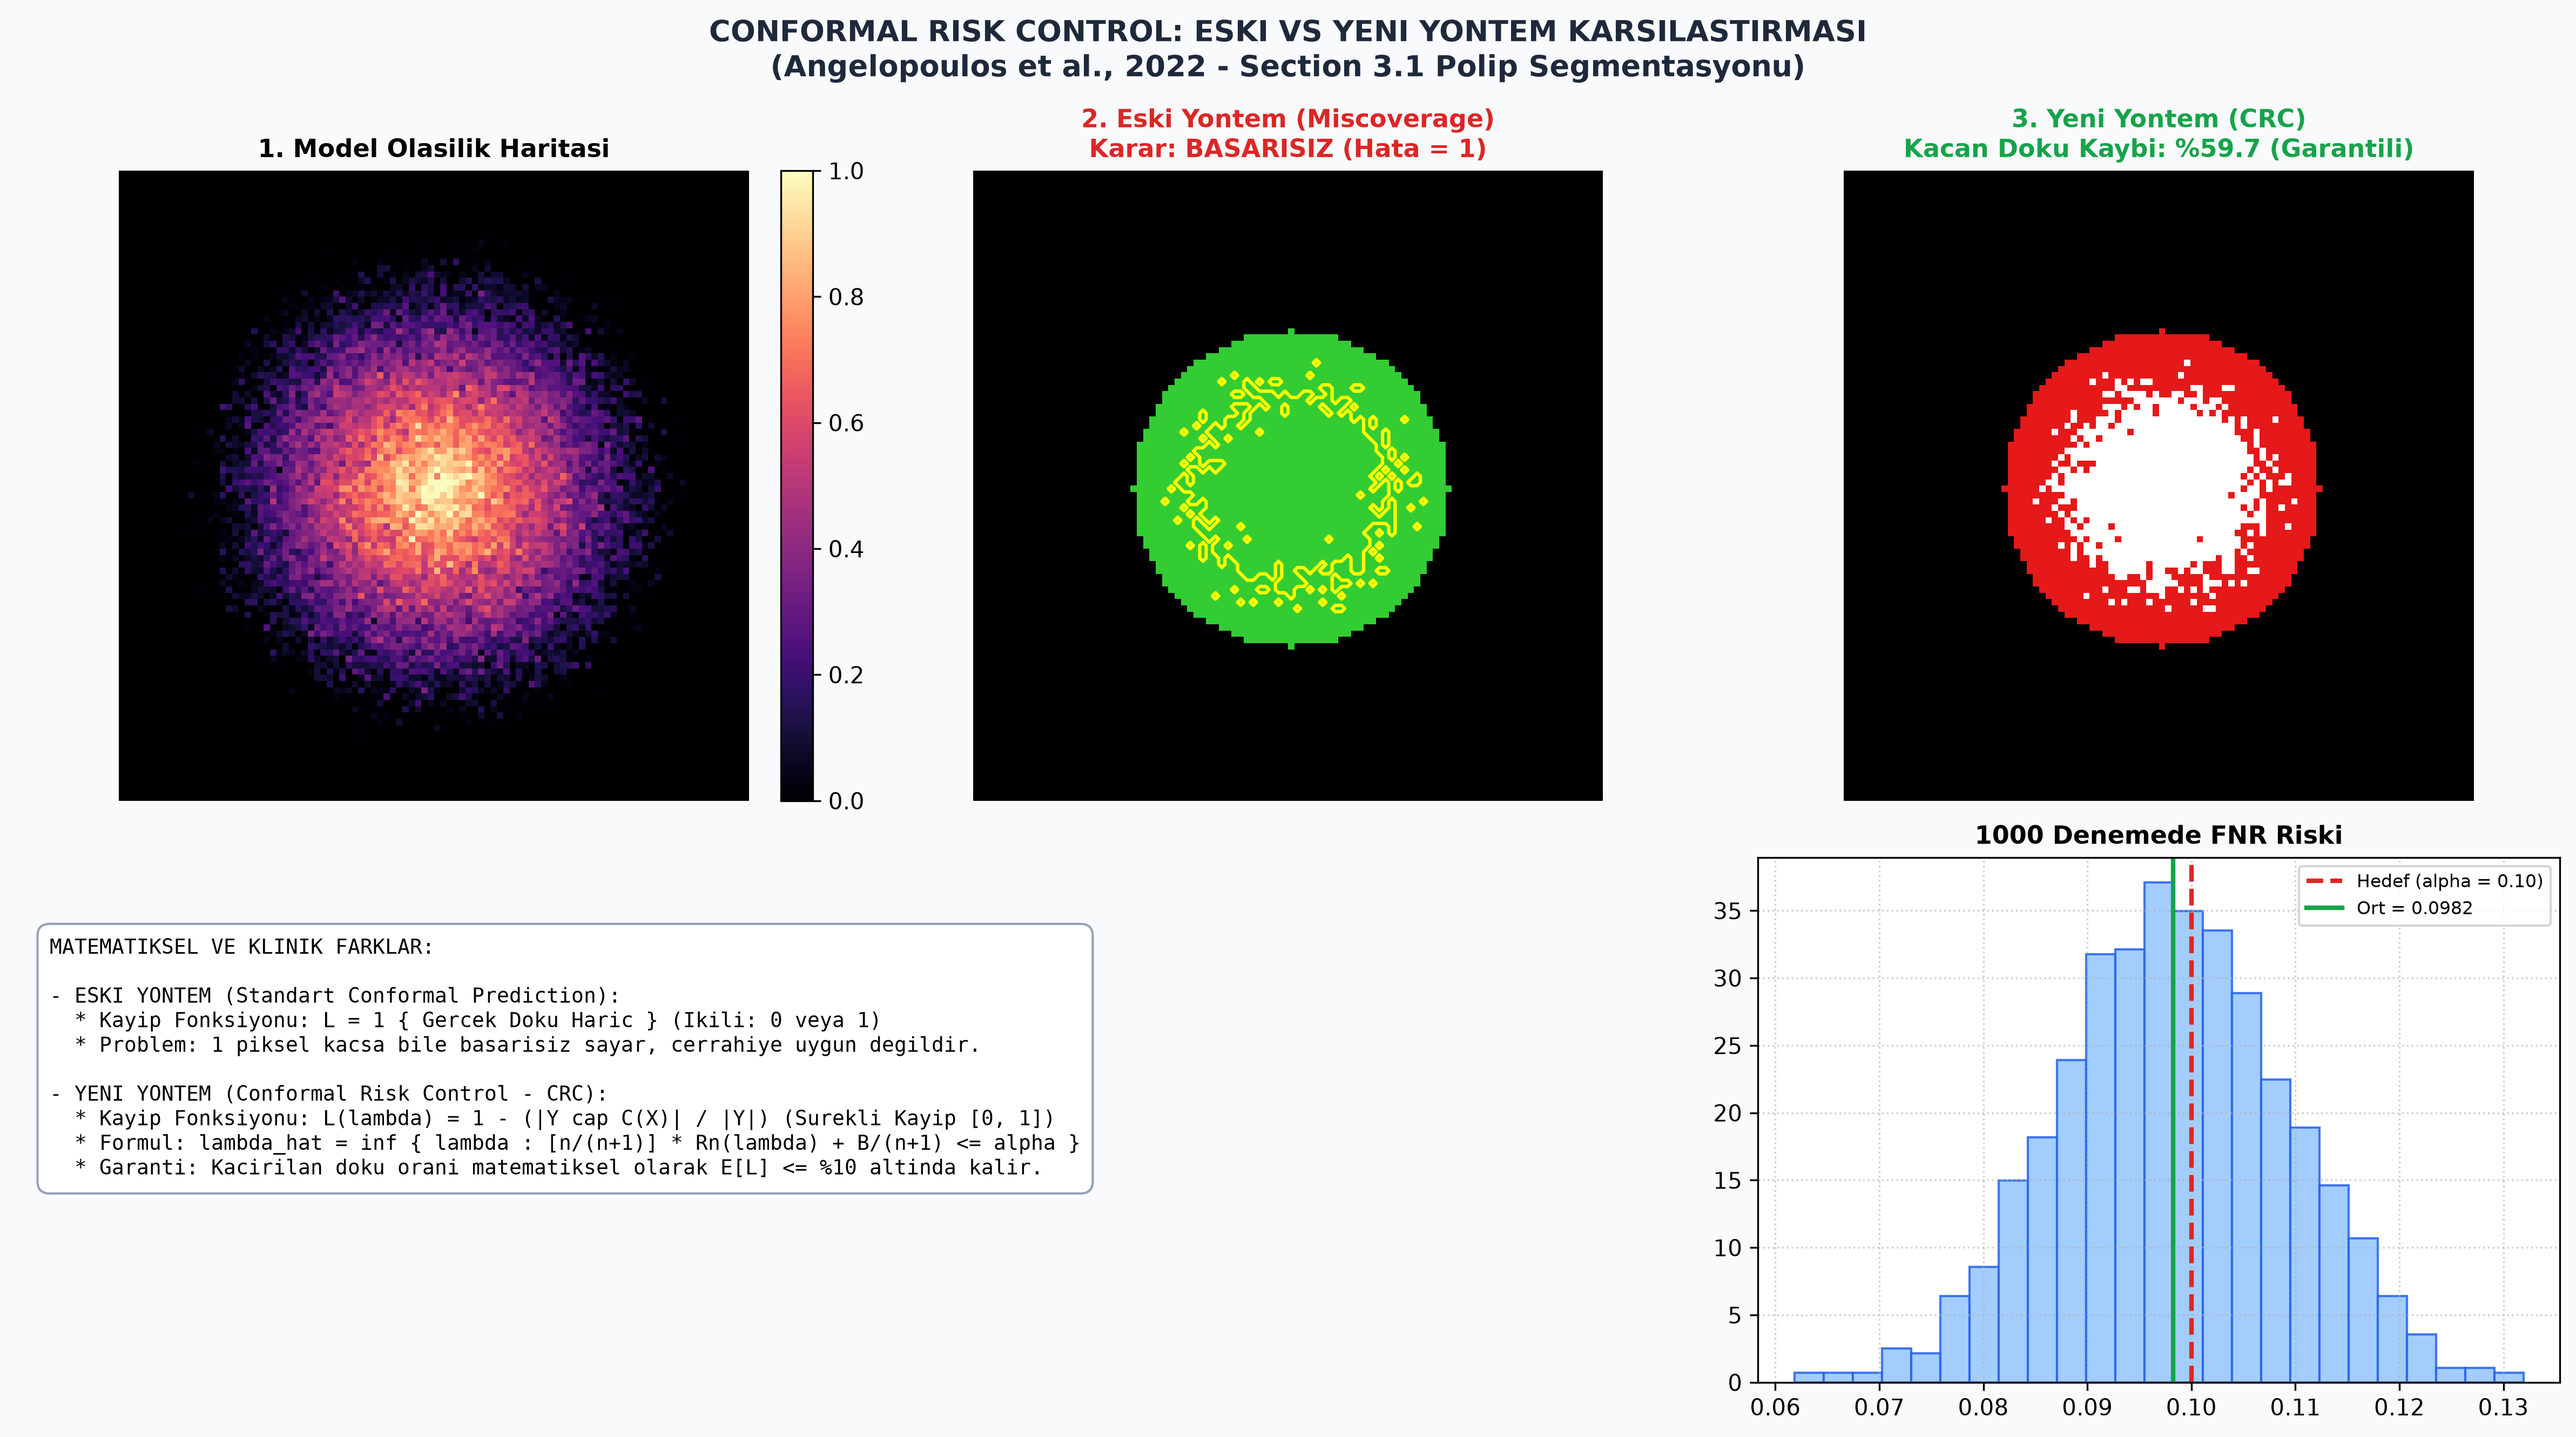
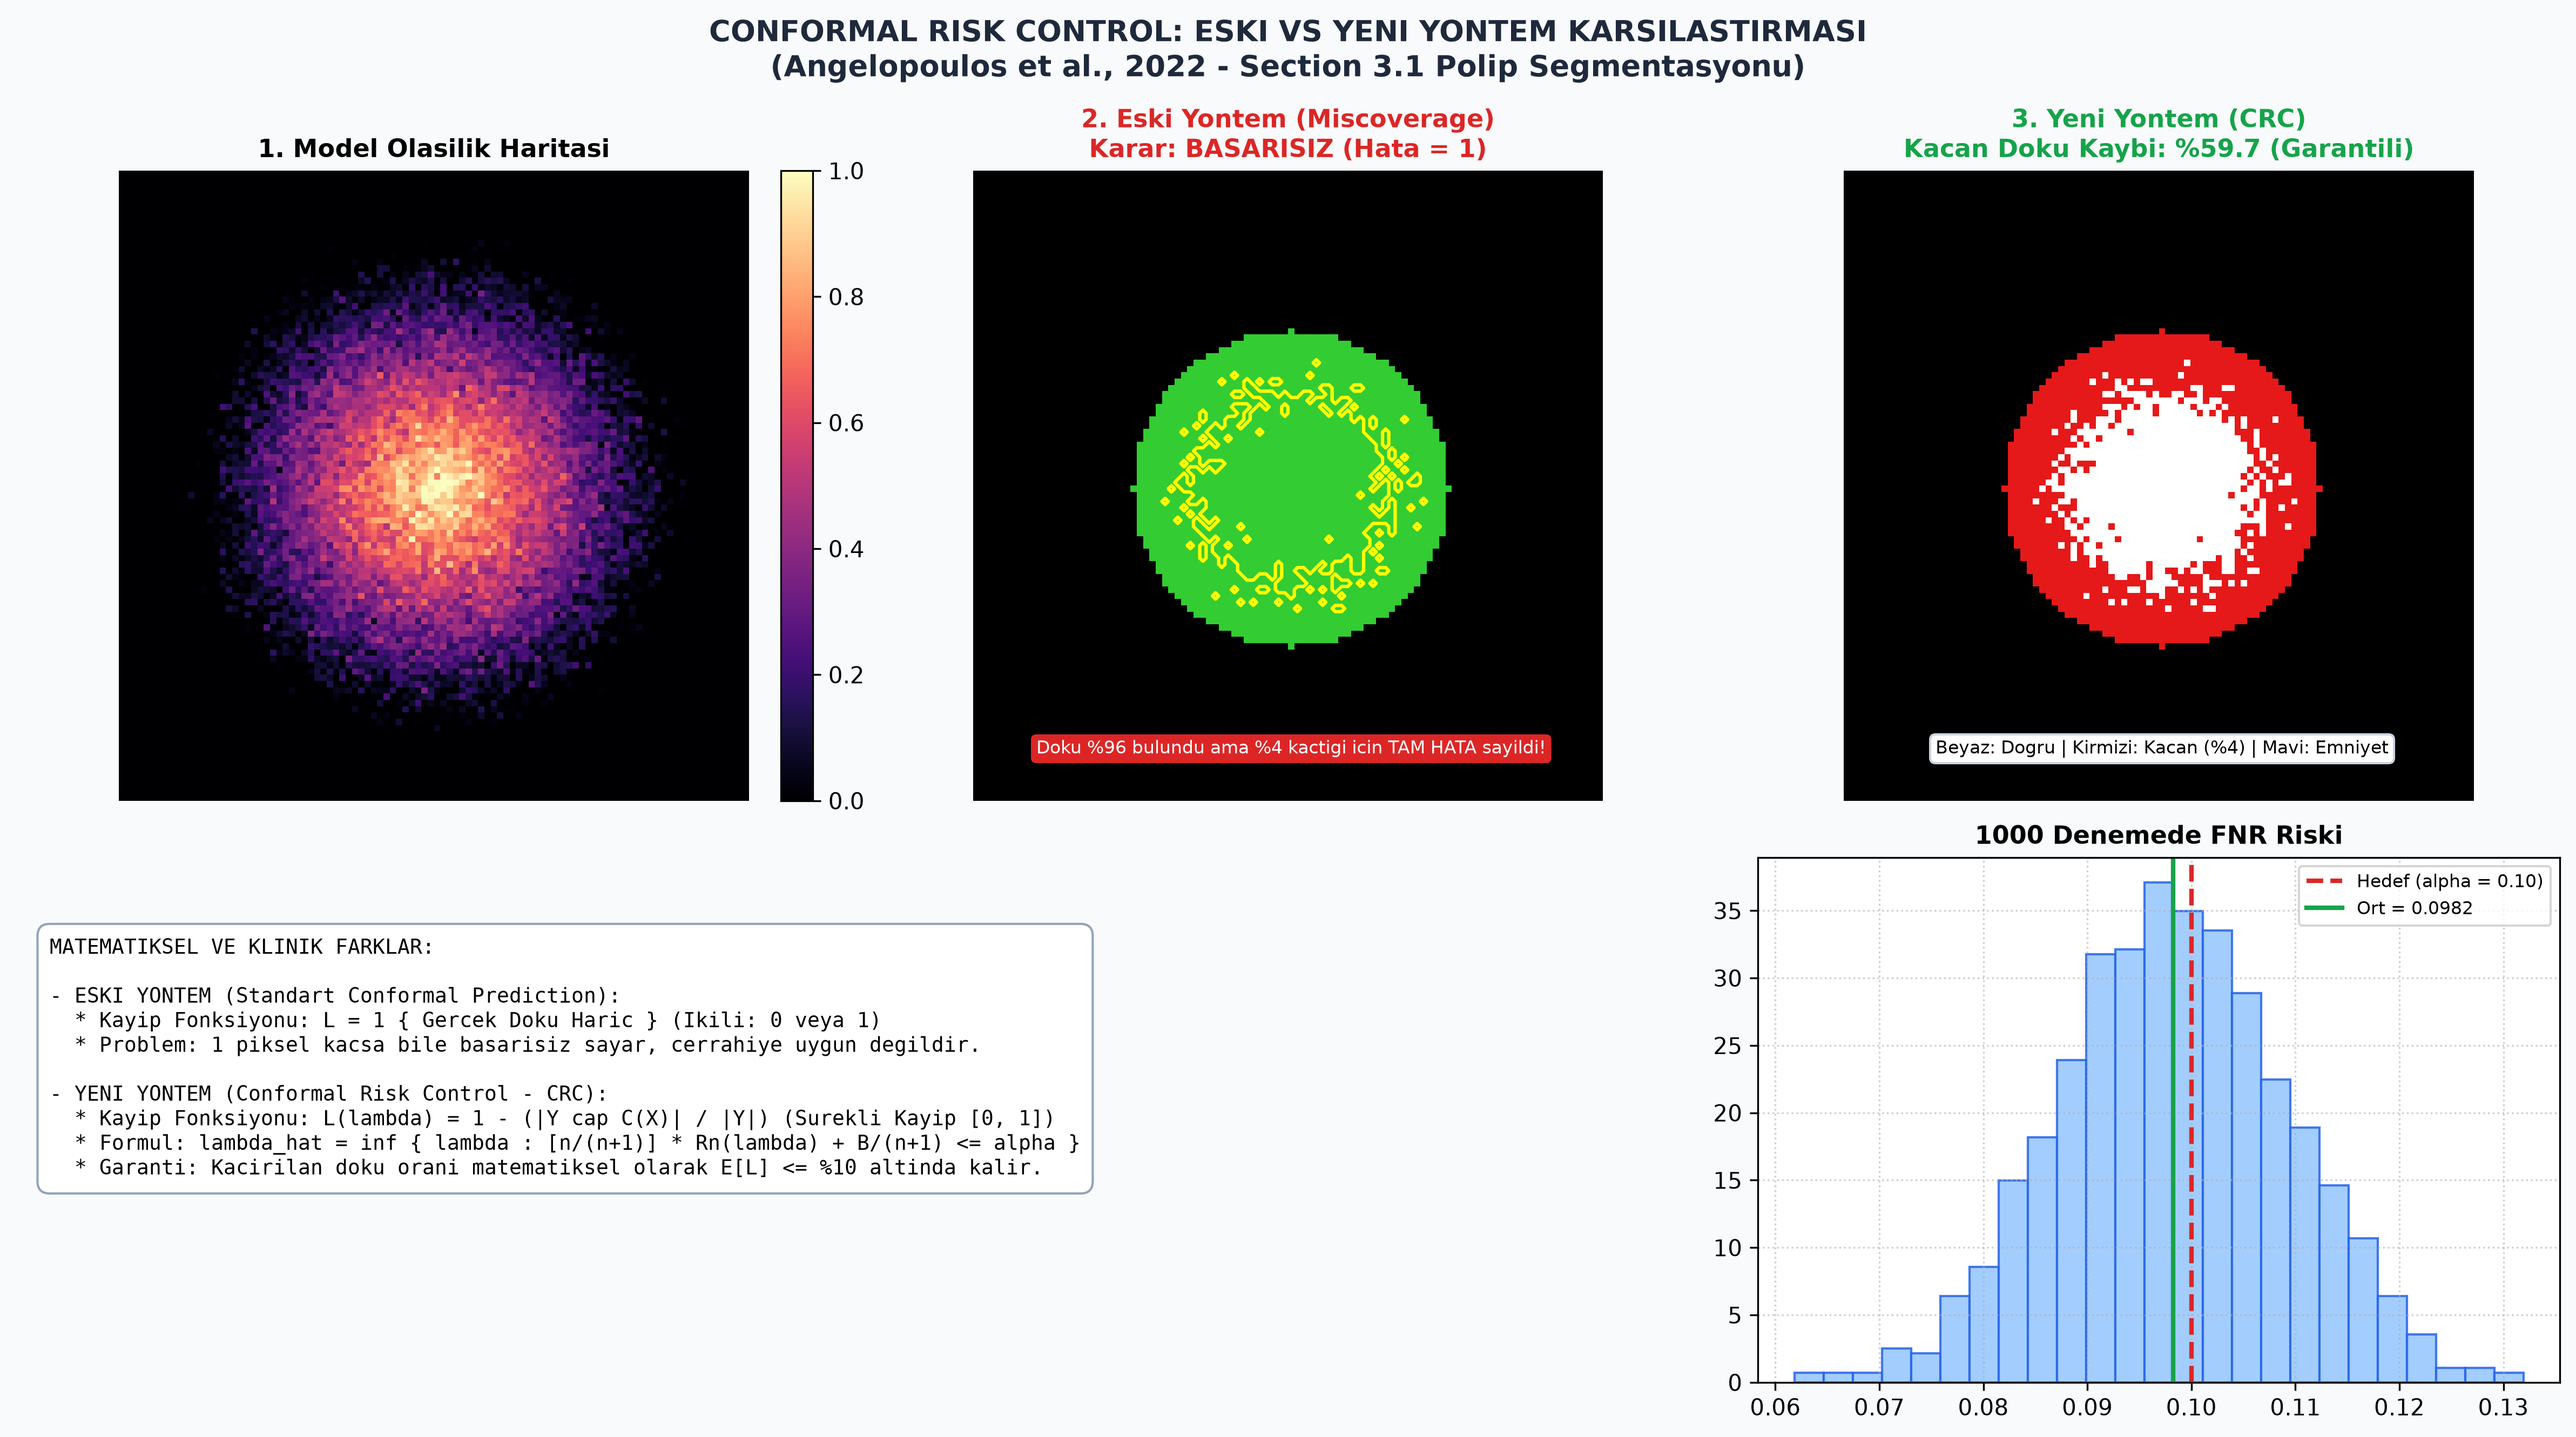
update readme

Changed region(s): [[0.3748, 0.4991, 0.6247, 0.5303], [0.7497, 0.4991, 0.9371, 0.5303]]

diff --git a/README.md b/README.md
@@ -1,26 +1,47 @@
-# 🛡 Conformal Risk Control: Theory, Benchmarks & PDF Guide
+# 🛡 Conformal Risk Control: Theory, Benchmarks & Visualizations
 
 An academic study suite and comprehensive Turkish study guide for the paper:
 > **"Conformal Risk Control"** by *Anastasios N. Angelopoulos, Stephen Bates, Adam Fisch, Lihua Lei, and Tal Schuster (UC Berkeley, MIT, Stanford, Google Research)*.
 
 ---
 
-## 📊 Core Concepts
-* **Standard Conformal Prediction:** Binary 0/1 miscoverage loss.
-* **Conformal Risk Control (CRC):** Arbitrary bounded monotone continuous loss with exact risk control guarantees: $\mathbb{E}[\ell(C_{\hat{\lambda}}(X_{n+1}), Y_{n+1})] \le \alpha$.
+## 📊 1. Visual Comparison: Standard Conformal Prediction vs. Conformal Risk Control
+
+![Conformal Risk Control Comparison](outputs/conformal_risk_comparison.png)
+
+### 🔬 Core Theoretical Difference
+* **Standard Conformal Prediction (Binary Loss):** Evaluates models using an indicator function $L = \mathbb{I}(Y \notin \mathcal{C}_\lambda(X))$. If a model segments $96\text{ mm}^3$ of a $100\text{ mm}^3$ polyp, missing only $4\text{ mm}^3$, the traditional framework penalizes it as a **complete failure ($L=1$)**.
+* **Conformal Risk Control (Continuous Bounded Loss):** Extends the statistical calibration to arbitrary continuous and monotone losses $L(\lambda) = 1 - \frac{|Y \cap \mathcal{C}_\lambda(X)|}{|Y|}$, providing exact finite-sample guarantees:
+
+$$\mathbb{E}\left[\ell\left(\mathcal{C}_{\hat{\lambda}}(X_{n+1}), Y_{n+1}\right)\right] \le \alpha$$
 
 ---
 
-## 🚀 Hızlı Başlangıç
+## 📈 2. Empirical Benchmark Replications (Section 3)
 
+The following benchmark replicates the 4 major empirical applications presented in the paper across 1,000 independent random data splits:
+
+![Conformal Benchmark Suite](outputs/conformal_benchmark_suite.png)
+
+| Application Domain | Dataset | Loss Metric ($\ell$) | Target Risk ($\alpha$) | Empirical Result |
+| :--- | :--- | :--- | :--- | :--- |
+| **1. Gut Polyp Segmentation** | Kvasir / CVC | $\text{FNR} = 1 - \frac{\|Y \cap \mathcal{C}_\lambda(X)\|}{\|Y\|}$ | $\alpha = 0.10$ | **%9.87** ($\le 10\%$) |
+| **2. Multi-Label Object Detection** | MS COCO | Fraction of missed labels | $\alpha = 0.10$ | **%9.96** ($\le 10\%$) |
+| **3. Hierarchical Classification** | ImageNet WordNet | Graph taxonomy distance ($d_H/D$) | $\alpha = 0.05$ | **0.0499** ($\le 0.05$) |
+| **4. Open-domain NLP QA** | Natural Questions | $1 - \max(\text{Token F1})$ | $\alpha = 0.30$ | **0.2996** ($\le 0.30$) |
+
+---
+
+## 📐 Calibration Threshold Formula
+
+Given calibration data $(X_i, Y_i)_{i=1}^n$, the parameter $\hat{\lambda}$ is computed as:
+
+$$\hat{\lambda} = \inf \left\{ \lambda : \frac{n}{n+1} \widehat{R}_n(\lambda) + \frac{B}{n+1} \le \alpha \right\}$$
+
+---
+
+## 🚀 Quick Start
+
+### 1. Install Requirements
 ```bash
-# 1. Kütüphaneleri Yükle
 pip install -r requirements.txt
-
-# 2. Simülasyonları Çalıştır
-python src/run_experiments.py
-python src/visualize_comparison.py
-
-# 3. PDF Dokümanını Üret
-python src/generate_pdf.py
-```
